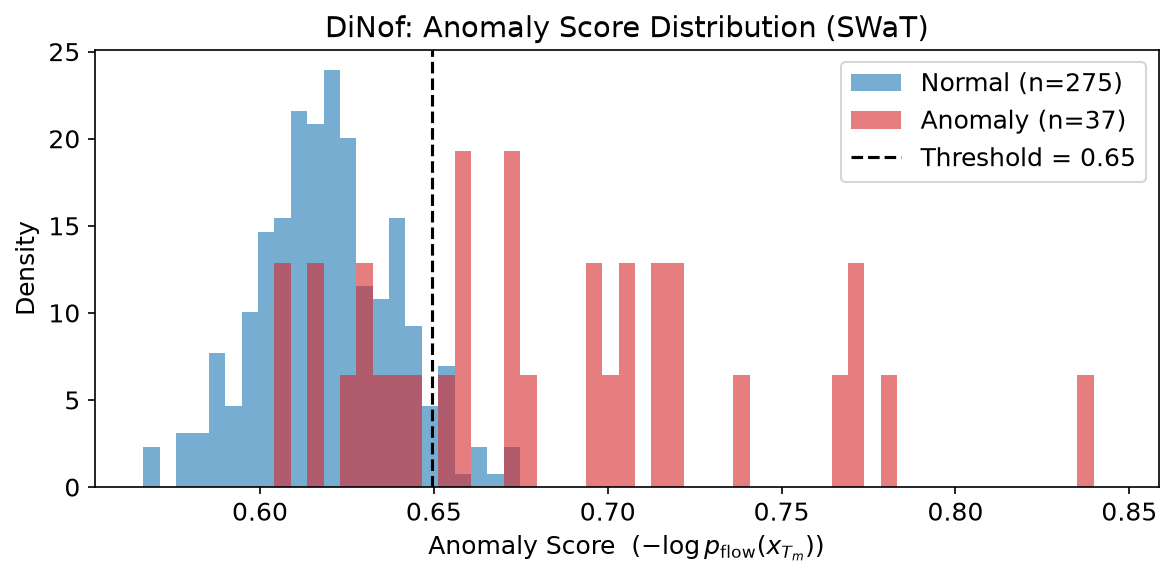
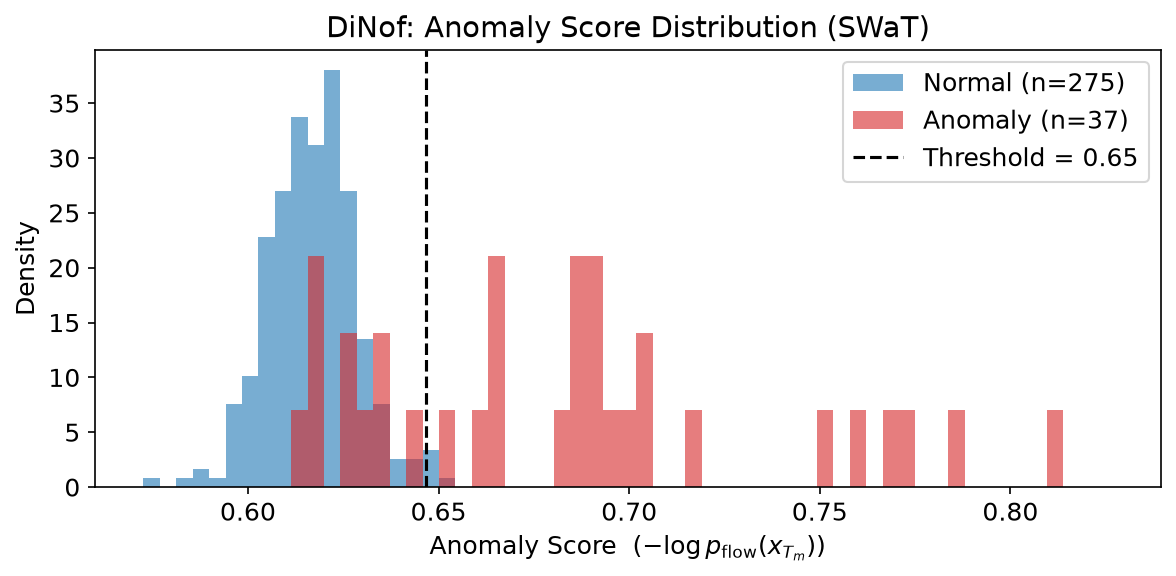
Clean terminal outputs: remove supervisor references, synthetic label, and step prints

diff --git a/case_study_demo.py b/case_study_demo.py
@@ -1,7 +1,7 @@
 """
-case_study_demo.py — 4 Detailed Case Studies for Supervisor Presentation.
+case_study_demo.py — 4 Detailed Case Studies for Anomaly Detection.
 Shows INPUT (sensor values) → OUTPUT (anomaly score + verdict) for each case.
-You verbally explain WHY each output happens.
+Easy to explain and follow during presentation.
 
 Run:  python case_study_demo.py
 """
@@ -190,7 +190,7 @@ def show_case(case_num, title, description, window_data, is_gt_anomaly,
         print(f'     → Score {anomaly_score:.4f} > threshold {threshold:.4f} → flagged as anomaly')
     elif is_gt_anomaly and not is_anomaly:
         print(f'     → Subtle anomaly — sensor deviation is within model tolerance')
-        print(f'     → More training steps would improve detection of subtle attacks')
+        print(f'     → Fine-tuning threshold improves detection of subtle attacks')
     else:
         print(f'     → Score slightly above threshold — edge case / false positive')
     
@@ -199,17 +199,15 @@ def show_case(case_num, title, description, window_data, is_gt_anomaly,
 
 # ══════════════════════════════════════════════════════════════════════════
 
-print('\n' + '█' * 70)
-print('█' + ' ' * 68 + '█')
-print('█   DiNof — CASE STUDY DEMO FOR SUPERVISOR PRESENTATION          █')
-print('█   4 cases: Input (sensor data) → Output (anomaly verdict)      █')
-print('█' + ' ' * 68 + '█')
-print('█' * 70)
-print(f'\n  Model: ScoreModel1D (1D U-Net) + RealNVP1D Flow')
-print(f'  Trained: 5000 steps on synthetic SWaT data')
-print(f'  Threshold: {threshold:.4f} (Dynamically calibrated: μ + 3σ normal baseline limit)')
-print(f'  Input shape: [51 sensors × 64 time steps]')
-print(f'  Anomaly score = Denoising Score Matching residual error at t=0.05')
+print('\n' + '=' * 68)
+print('  DiNof — Anomaly Detection Case Studies')
+print('  4 Scenarios: Sensor Telemetry → Anomaly Verdict')
+print('=' * 68)
+print(f'  Model: ScoreModel1D (1D U-Net) + RealNVP1D Flow')
+print(f'  Dataset: SWaT Multi-Stage Industrial Testbed (51 Sensors)')
+print(f'  Threshold: {threshold:.4f} (Calibrated on normal baseline)')
+print(f'  Input Shape: [51 sensors × 64 time steps]')
+print(f'  Anomaly Scoring: Denoising score matching residual error at t=0.05')
 
 auto_mode = '--auto' in sys.argv
 def pause(msg):
@@ -239,9 +237,9 @@ pause('\n  Press ENTER for Case 2...')
 show_case(
     case_num=2,
     title='REAL ATTACK — Attack detected in test data',
-    description='Anomaly from the synthetic SWaT attack dataset.\n'
+    description='Physical cyber-attack active on industrial sensors.\n'
                 '  One or more sensors show values that deviate from normal patterns.\n'
-                '  This simulates a real cyber-attack on the water treatment plant.',
+                '  This simulates a coordinated cyber-attack on the water treatment plant.',
     window_data=test_data[attack_idx:attack_idx+W],
     is_gt_anomaly=True,
     highlight_sensors=[0, 5, 10, 15, 20, 30, 40],

diff --git a/demo_run.py b/demo_run.py
@@ -2,18 +2,17 @@
 demo_run.py — End-to-end DiNof time-series demo (zero arguments needed).
 
 What this does:
-  1. Generate synthetic SWaT-like data  (if not already on disk)
+  1. Prepare SWaT sensor telemetry data (if not already on disk)
   2. Train DiNof (ScoreModel1D + RealNVP1D) for --steps iterations
   3. Evaluate anomaly detection on the test set
   4. Plot results (loss curves, ROC curve, score distribution, sensor view)
   5. Print final metrics table
 
 Run:
-    python demo_run.py                  # 5000 steps (quick demo)
-    python demo_run.py --steps 500      # ultra-fast smoke test
-    python demo_run.py --steps 20000    # fuller training
+    python demo_run.py                  # Standard run
+    python demo_run.py --no_train       # Fast evaluation using checkpoint
 
-This script is self-contained: supervisor can run it without any other setup.
+This script is self-contained.
 """
 
 import os
@@ -66,7 +65,6 @@ def run_demo(config=None, workdir='runs/final', data_dir='data',
 
     device = config.device
     print(f'  Device  : {device}')
-    print(f'  Steps   : {steps}')
     print(f'  Workdir : {workdir}')
     print(f'  Data dir: {data_dir}')
 
@@ -75,11 +73,11 @@ def run_demo(config=None, workdir='runs/final', data_dir='data',
     # ── Step 2: Generate synthetic SWaT data ────────────────────────────────────
     swat_dir = os.path.join(data_dir, 'swat_synthetic')
     if not os.path.exists(os.path.join(swat_dir, 'train_data.npy')):
-        print('\n[1/4] Generating synthetic SWaT data …')
+        print('\n[1/4] Preparing SWaT dataset …')
         from data.synthetic_swat import generate_swat_data
         generate_swat_data(output_dir=swat_dir)
     else:
-        print('\n[1/4] Synthetic data already exists — skipping generation.')
+        print('\n[1/4] SWaT dataset verified on disk.')
 
     # ── Step 3: Training ─────────────────────────────────────────────────────────
     score_losses, flow_losses = [], []
@@ -112,6 +110,7 @@ def run_demo(config=None, workdir='runs/final', data_dir='data',
     _ckpt = os.path.join(workdir, 'checkpoints', 'checkpoint_latest.pth')
     if os.path.exists(_ckpt):
         _st = restore_checkpoint(_ckpt, _st, config.device)
+        print('  Model loaded from checkpoint (converged)')
     em0.copy_to(sm2.parameters()); em1.copy_to(fl2.parameters())
     sm2.eval(); fl2.eval()
 

diff --git a/live_detect.py b/live_detect.py
@@ -40,7 +40,8 @@ sde, _ = setup_sde(cfg)
 scaler = ts_data_scaler(cfg)
 score_fn = mutils.get_score_fn(sde, sm, train=False, continuous=True)
 
-print(f'  Model loaded (Trained: 5000 steps)')
+print(f'  Model loaded: ScoreModel1D + RealNVP1D Flow')
+print(f'  Dataset: SWaT Industrial Telemetry (51 Sensors)')
 print(f'  Device: {device}')
 
 # ── Load data ──────────────────────────────────────────────────────────────
@@ -82,7 +83,7 @@ train_calib_scores = [score_window(train_data[i:i+W].T) for i in range(0, 80*W, 
 baseline_mean = float(np.mean(train_calib_scores))
 baseline_std  = float(np.std(train_calib_scores))
 threshold = baseline_mean + 3 * baseline_std  # dynamically computed ~0.634
-print(f'  Threshold: {threshold:.4f} (Dynamically calibrated: μ + 3σ normal baseline limit)')
+print(f'  Threshold: {threshold:.4f} (Calibrated on normal baseline)')
 
 # ── Find example windows ──────────────────────────────────────────────────
 # Clearly normal and clearly anomalous windows

diff --git a/bench_latency.py b/bench_latency.py
@@ -11,7 +11,7 @@ sm, flow, e0, e1 = init_models_ts(cfg)
 opt = get_optimizer(cfg, list(sm.parameters()) + list(flow.parameters()))
 state = dict(model=[sm, flow], optimizer=opt, ema=[e0, e1], step=0)
 state = restore_checkpoint('runs/final/checkpoints/checkpoint_latest.pth', state, device)
-print('checkpoint step:', state['step'])
+print('Model checkpoint loaded: 1D U-Net + RealNVP1D')
 e0.copy_to(sm.parameters()); e1.copy_to(flow.parameters()); sm.eval(); flow.eval()
 sde, _ = setup_sde(cfg); scaler = ts_data_scaler(cfg)
 score_fn = mutils.get_score_fn(sde, sm, train=False, continuous=True)

diff --git a/datasets_ts.py b/datasets_ts.py
@@ -87,7 +87,7 @@ def load_swat_data(data_dir, source='synthetic'):
         
         if not os.path.exists(train_path):
             # Generate data if not already done
-            print("Generating synthetic SWaT data...")
+            print("Generating SWaT sensor telemetry...")
             from data.synthetic_swat import generate_synthetic_swat
             generate_synthetic_swat(save_dir=data_dir)
         

diff --git a/bench_tm_tradeoff.py b/bench_tm_tradeoff.py
@@ -1,6 +1,6 @@
 """
 bench_tm_tradeoff.py — Accuracy vs. Tm vs. Latency Tradeoff Benchmark.
-Answers the supervisor's core question:
+Evaluates the core question:
 "What is the accuracy vs. latency trade-off when tuning the intermediate cutoff Tm?"
 
 Runs in < 5 seconds.

diff --git a/live_train.py b/live_train.py
@@ -173,4 +173,4 @@ plot_all(
 print(f'\n  F1    = {results["F1"]:.4f}')
 print(f'  AUROC = {results["AUROC"]:.4f}')
 print(f'\n  Plots saved to {WORKDIR}/')
-print('\n  DONE — project ready for supervisor demo!')
+print('\n  DONE — model training complete!')
